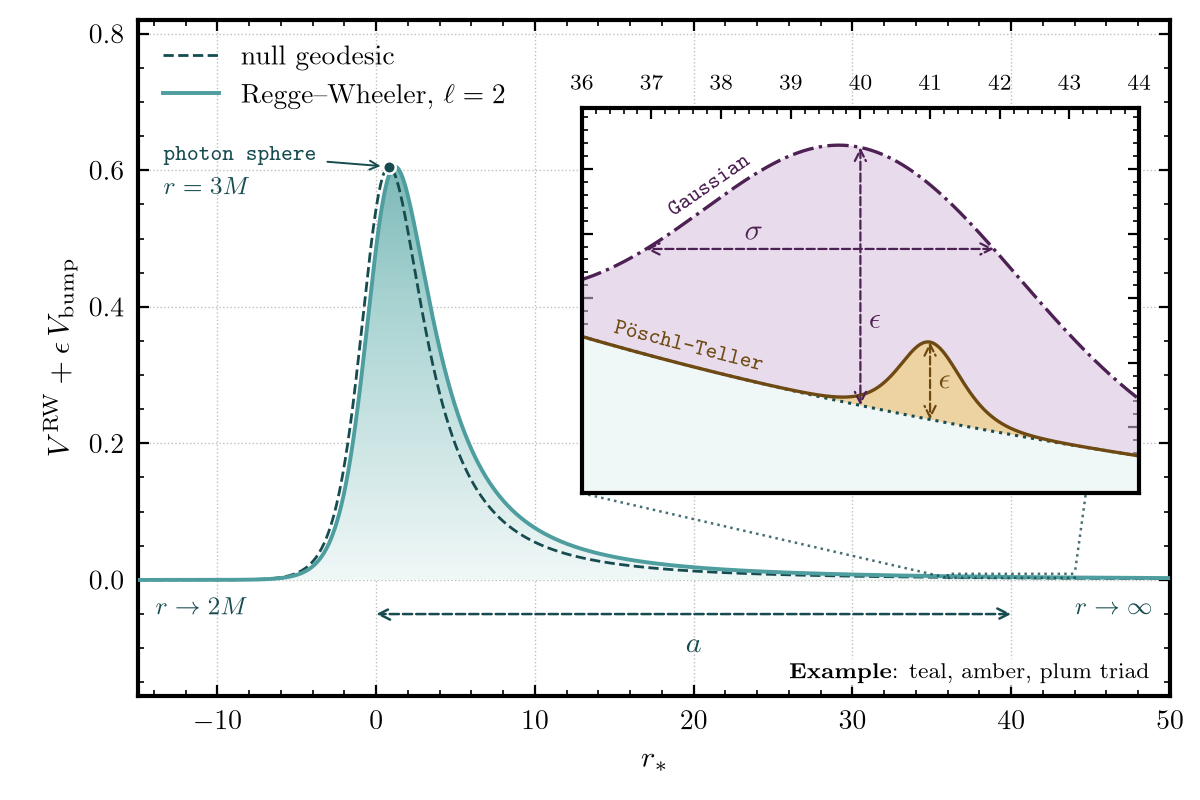
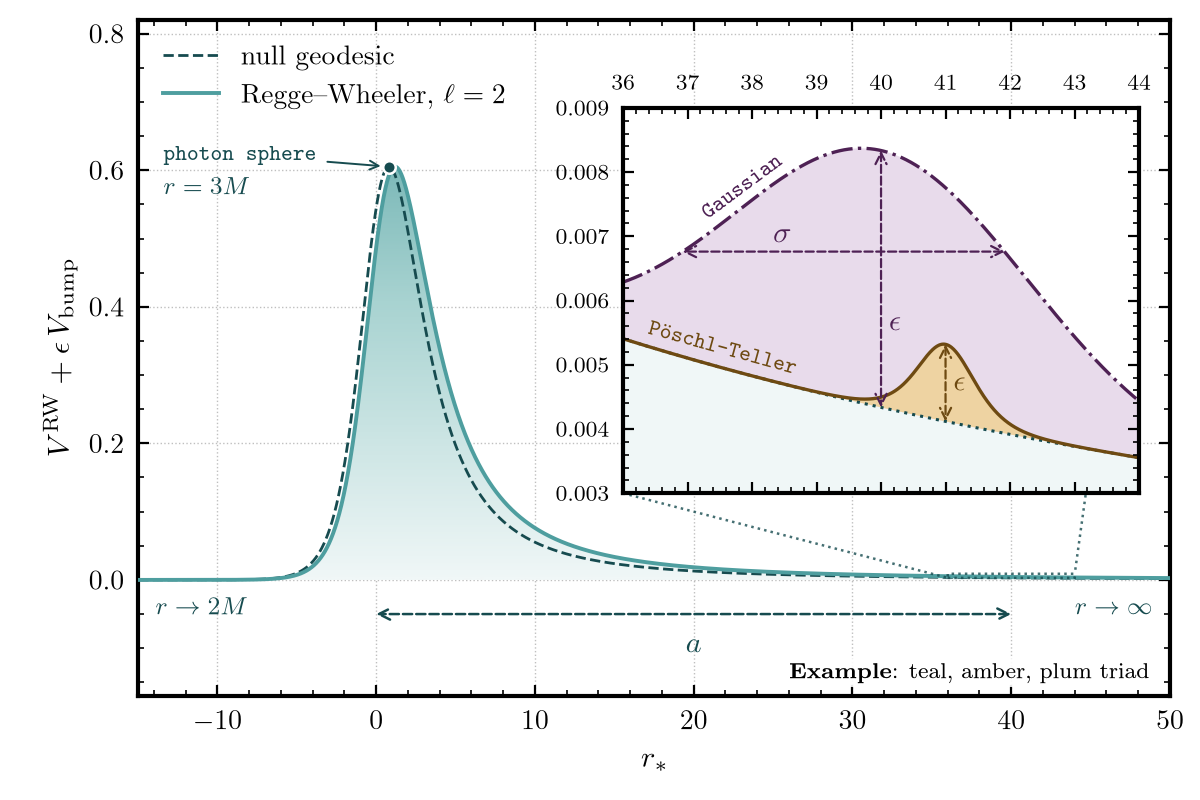
Fixed inset scale in potential plot.

diff --git a/src/amore/examples.py b/src/amore/examples.py
@@ -71,7 +71,6 @@ def tortoise_to_r(rstar):
 def potential_with_bump():
     """Teal, amber and plum (close to a triad): the Regge-Wheeler potential, and the same
     potential with a small Poschl-Teller or Gaussian bump at a distance a from the peak.
-
     The barrier has a vertical gradient fill. The dashed curve is the effective potential of
     null geodesics, V_null = (1 - 2M/r) L^2 / r^2, from the radial equation
     (dr/dlambda)^2 + V_null = E^2. A null ray depends only on b = L/E, so the scale of V_null is
@@ -80,6 +79,7 @@ def potential_with_bump():
     r_* = 1.5 + log 0.5), marked with a dot. The Regge-Wheeler peak is at r = 1.64 for l = 2;
     for large l the potential tends to V_null with L^2 = l (l + 1). The labels at the two ends
     show that r_* -> -inf at the horizon r = 2M and r_* -> +inf at spatial infinity."""
+    from matplotlib.ticker import FuncFormatter, MultipleLocator
     teal, amber, plum = (amore.palette(n) for n in ("teal", "amber", "plum"))
     rstar = np.linspace(-15, 50, 6000)
     r = tortoise_to_r(rstar)
@@ -122,12 +122,29 @@ def potential_with_bump():
 
     window = (rstar >= 36) & (rstar <= 44)
     lo, hi = v_rw[window].min(), v_g[window].max()
-    pad = 0.12 * (hi - lo)
-    ins = amore.inset(ax, [0.43, 0.30, 0.54, 0.57], xlim=(36, 44), ylim=(lo - pad, hi + pad))
-    ins.set_yticklabels([])
-    ins.tick_params(axis="x", labeltop=True, labelbottom=False)   # keep the zoom lines clear
+    # The y range of the inset runs from one whole tick to another (every 0.001), so that both
+    # ends of the axis are ticks and the ticks are evenly spaced.
+    step = 0.001
+    y_lo = np.floor((lo - 0.1 * (hi - lo)) / step) * step
+    y_hi = np.ceil((hi + 0.1 * (hi - lo)) / step) * step
+    # The inset starts at 0.47, to the right of where the curve of the main plot passes the
+    # y labels of the inset.
+    ins = amore.inset(ax, [0.47, 0.30, 0.50, 0.57], xlim=(36, 44), ylim=(y_lo, y_hi))
+    ins.set_zorder(10)
+    ins.patch.set_facecolor("white")
+    ins.patch.set_alpha(1)
+    for spine in ins.spines.values():
+        spine.set_zorder(10)
     ins.grid(False)
-    ins.fill_between(rstar, lo - pad, v_rw, color=teal["shade"], lw=0)       # under the bare V
+    ins.set_axisbelow(False)          # the style draws ticks below the data, under the fills
+    ins.xaxis.set_major_locator(MultipleLocator(1))
+    ins.yaxis.set_major_locator(MultipleLocator(step))
+    ins.yaxis.set_major_formatter(FuncFormatter(lambda v, _: r"$%.3f$" % v))
+    ins.tick_params(axis="both", which="both", direction="in", top=True, bottom=True, left=True,
+                    right=True, zorder=10)
+    ins.tick_params(axis="y", which="major", labelleft=True, labelright=False, labelsize=8)
+    ins.tick_params(axis="x", which="major", labeltop=True, labelbottom=False, labelsize=8)
+    ins.fill_between(rstar, y_lo, v_rw, color=teal["shade"], lw=0)           # under the bare V
     ins.fill_between(rstar, v_rw, v_g, color=plum["light"], alpha=0.55, lw=0)  # Gaussian area
     ins.fill_between(rstar, v_rw, v_pt, color=amber["light"], alpha=0.9, lw=0)  # P-T area
     ins.plot(rstar, v_rw, color=teal["ink"], ls=":", lw=1.1)
@@ -149,6 +166,13 @@ def potential_with_bump():
     ins.annotate("", xy=(left, ys), xytext=(right, ys), arrowprops=dict(arrow, color=plum["ink"]))
     ins.text((left + b) / 2, ys + 0.03 * (hi - lo), r"$\sigma$", color=plum["ink"], ha="center",
              fontsize=11)
+
+    ax.set_xlabel(r"$r_*$")
+    ax.set_ylabel(r"$V^{\mathrm{RW}} + \epsilon\, V_{\mathrm{bump}}$")
+    ax.legend(loc="upper left")
+    amore.tag(ax, example_tag("teal, amber, plum triad"), loc="lower right")
+    amore.save(fig, OUT / "amore_teal", dpi=README_DPI, formats=("pdf", "png"), exact_size=True)
+    plt.close(fig)
 
     def along(xs, v, dy):
         """Position and angle of a label that follows curve v at xs, offset dy in data units."""
